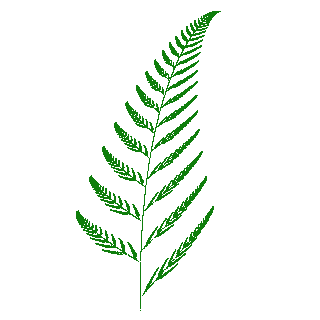
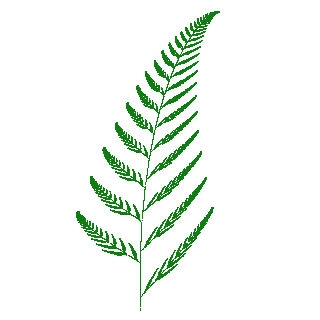
Fix type errors reported after enabling strict type mode

diff --git a/main.php b/main.php
@@ -1,4 +1,4 @@
-<?php
+<?php declare(strict_types=1);
 
 /**
  * Fractal created following the documentation in https://en.wikipedia.org/wiki/Barnsley_fern
@@ -9,19 +9,12 @@
 const ImageWidth = 320;
 const ImageHeight = 320;
 
-const PixelScale = 30;
-
-const LeftMargin = 140;
-const BottomMargin = 10;
-
-const NoCompression = 0;
-
 $im = imagecreatetruecolor(ImageWidth, ImageHeight);
 $white = imagecolorallocate($im, 0xff, 0xff, 0xff);
 imagefill($im, 0, 0, $white);
-$green = imagecolorallocate($im, 0xf, 0x7e, 12);
+$green = imagecolorallocate($im, 0xf, 0x7e, 0x12);
 
-const coefficients = [
+const Coefficients = [
 	[     0,     0,     0, 0.16, 0,    0, 0.01 ], // Stem
 	[  0.85,  0.04, -0.04, 0.85, 0,  1.6, 0.85 ], // Successively smaller leaflets
 	[   0.2, -0.26,  0.23, 0.22, 0,  1.6, 0.07 ], // Largest left-hand leaflet
@@ -29,19 +22,25 @@ const coefficients = [
 ];
 
 $probabilities = [];
-foreach(coefficients as $i => $c) {
-	$probabilities = array_merge($probabilities, array_fill(0, $c[6] * 100, $i));
+foreach(Coefficients as $i => $c) {
+	$probabilities = array_merge($probabilities, array_fill(0, intval($c[6] * 100), $i));
 }
+
+const PixelScale = 30;
+const LeftMargin = 140;
+const BottomMargin = 10;
 
 $x = 0;
 $y = 0;
 for($i = 0; $i < 100000; $i++) {
-	imagesetpixel($im, round($x * PixelScale) + LeftMargin, ImageHeight - BottomMargin - round($y * PixelScale), $green);
+	imagesetpixel($im, intval($x * PixelScale) + LeftMargin, ImageHeight - BottomMargin - intval($y * PixelScale), $green);
 	$p = $probabilities[array_rand($probabilities)];
-	$c = coefficients[$p];
+	$c = Coefficients[$p];
 	$x = ($c[0] * $x + $c[1] * $y) + $c[4];
 	$y = ($c[2] * $x + $c[3] * $y) + $c[5];
 }
+
+const NoCompression = 0;
 
 imagepng($im, 'barnsley-fern.png', NoCompression);
 imagedestroy($im);
